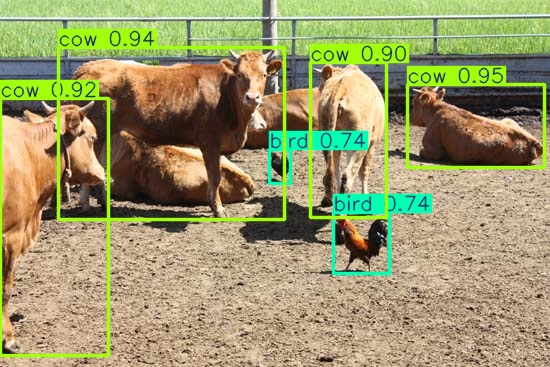
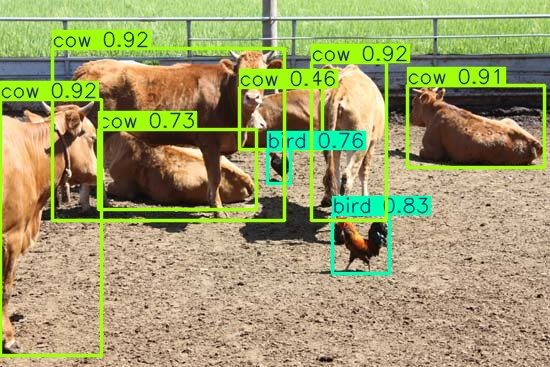
use anothere models

Changed region(s): [[0.0, 0.0599, 1.0, 0.9891]]

diff --git a/object_detection/test.py b/object_detection/test.py
@@ -1,11 +1,37 @@
 from ultralytics import YOLO
 import cv2
 
-model = YOLO("yolov8s.pt") # 원하는 크기 모델 입력(n ~ x)
+# 여러 모델을 리스트로 지정 (필요한 만큼 추가 가능)
+model_paths = [
+    "yolov8n.pt",  # nano
+    "yolov8s.pt",  # small
+    "yolov8m.pt",  # medium
+    "yolov8l.pt",  # large
+    "yolov8x.pt",  # extra large
+]
 
-result = model.predict("./test4.jpg", save=True, conf=0.5)
-plots = result[0].plot()
+image_path = "test4.jpg"  # 추론할 이미지 경로
+results_dict = {}         # 모델별 결과 저장용
 
-cv2.imshow("plot", plots)
-cv2.waitKey(0)
-cv2.destroyAllWindows()
+for mp in model_paths:
+    print(f"-----\nRunning inference with {mp}")
+    model = YOLO(mp)
+
+    # 모델 추론
+    result = model.predict(image_path, save=True, conf=0.3)  # 필요하면 save=True 등 옵션 추가
+
+    # 첫 번째(유일한) 결과 객체를 꺼냄
+    res = result[0]
+    # 시각화를 위해 이미지에 박스를 그린 버전 생성
+    plotted_img = res.plot()
+
+    # 결과를 딕셔너리에 저장 (필요하면 바로 imshow로 확인 가능)
+    results_dict[mp] = plotted_img
+
+    # 만약 바로 OpenCV 창으로 보고 싶다면:
+    cv2.imshow(f"Result - {mp}", plotted_img)
+    cv2.waitKey(0)
+    cv2.destroyAllWindows()
+
+# 이제 results_dict에 각 모델별 시각화된 이미지가 저장됨
+# 필요하다면 파일로 저장도 가능

diff --git a/object_detection/detection_1.py b/object_detection/detection_1.py
@@ -1,0 +1,20 @@
+from ultralytics import YOLO
+import cv2
+
+model = YOLO("yolov8s.pt") # 원하는 크기 모델 입력(n ~ x)
+
+# result = model.predict("./test4.jpg", save=False, conf=0.5) # conf=0.5 : 신뢰도가 0.5 이상인 것만 출력
+result = model.predict("test4.jpg")
+plots = result[0].plot()
+
+# 박스 정보 확인(좌표, 신뢰도, 클래스)
+boxes = result[0].boxes
+
+for box in boxes :
+    print(box.xyxy.cpu().detach().numpy().tolist()) # 출력값을 tebsor에서 numpy로 변환
+    print(box.conf.cpu().detach().numpy().tolist())
+    print(box.cls.cpu().detach().numpy().tolist())
+
+cv2.imshow("plot", plots)
+cv2.waitKey(0)
+cv2.destroyAllWindows()

diff --git a/object_detection/detection_2(영상).py b/object_detection/detection_2(영상).py
@@ -1,0 +1,21 @@
+# 아직 실행안시켜봄
+
+from ultralytics import YOLO
+import cv2
+
+
+model = YOLO("yolov8s.pt")
+cap = cv2.VideoCapture("./sample.mp4")
+
+while cap.isOpened() :
+    ret, frame = cap.read()
+
+    if ret :
+        results = model(frame)
+        cv2.imshow("Results", results[0].plot())
+
+    if cv2.waitKey(1) & 0xFF == ord('q'):
+        break
+
+cv2.destroyAllWindows()
+cap.release()
